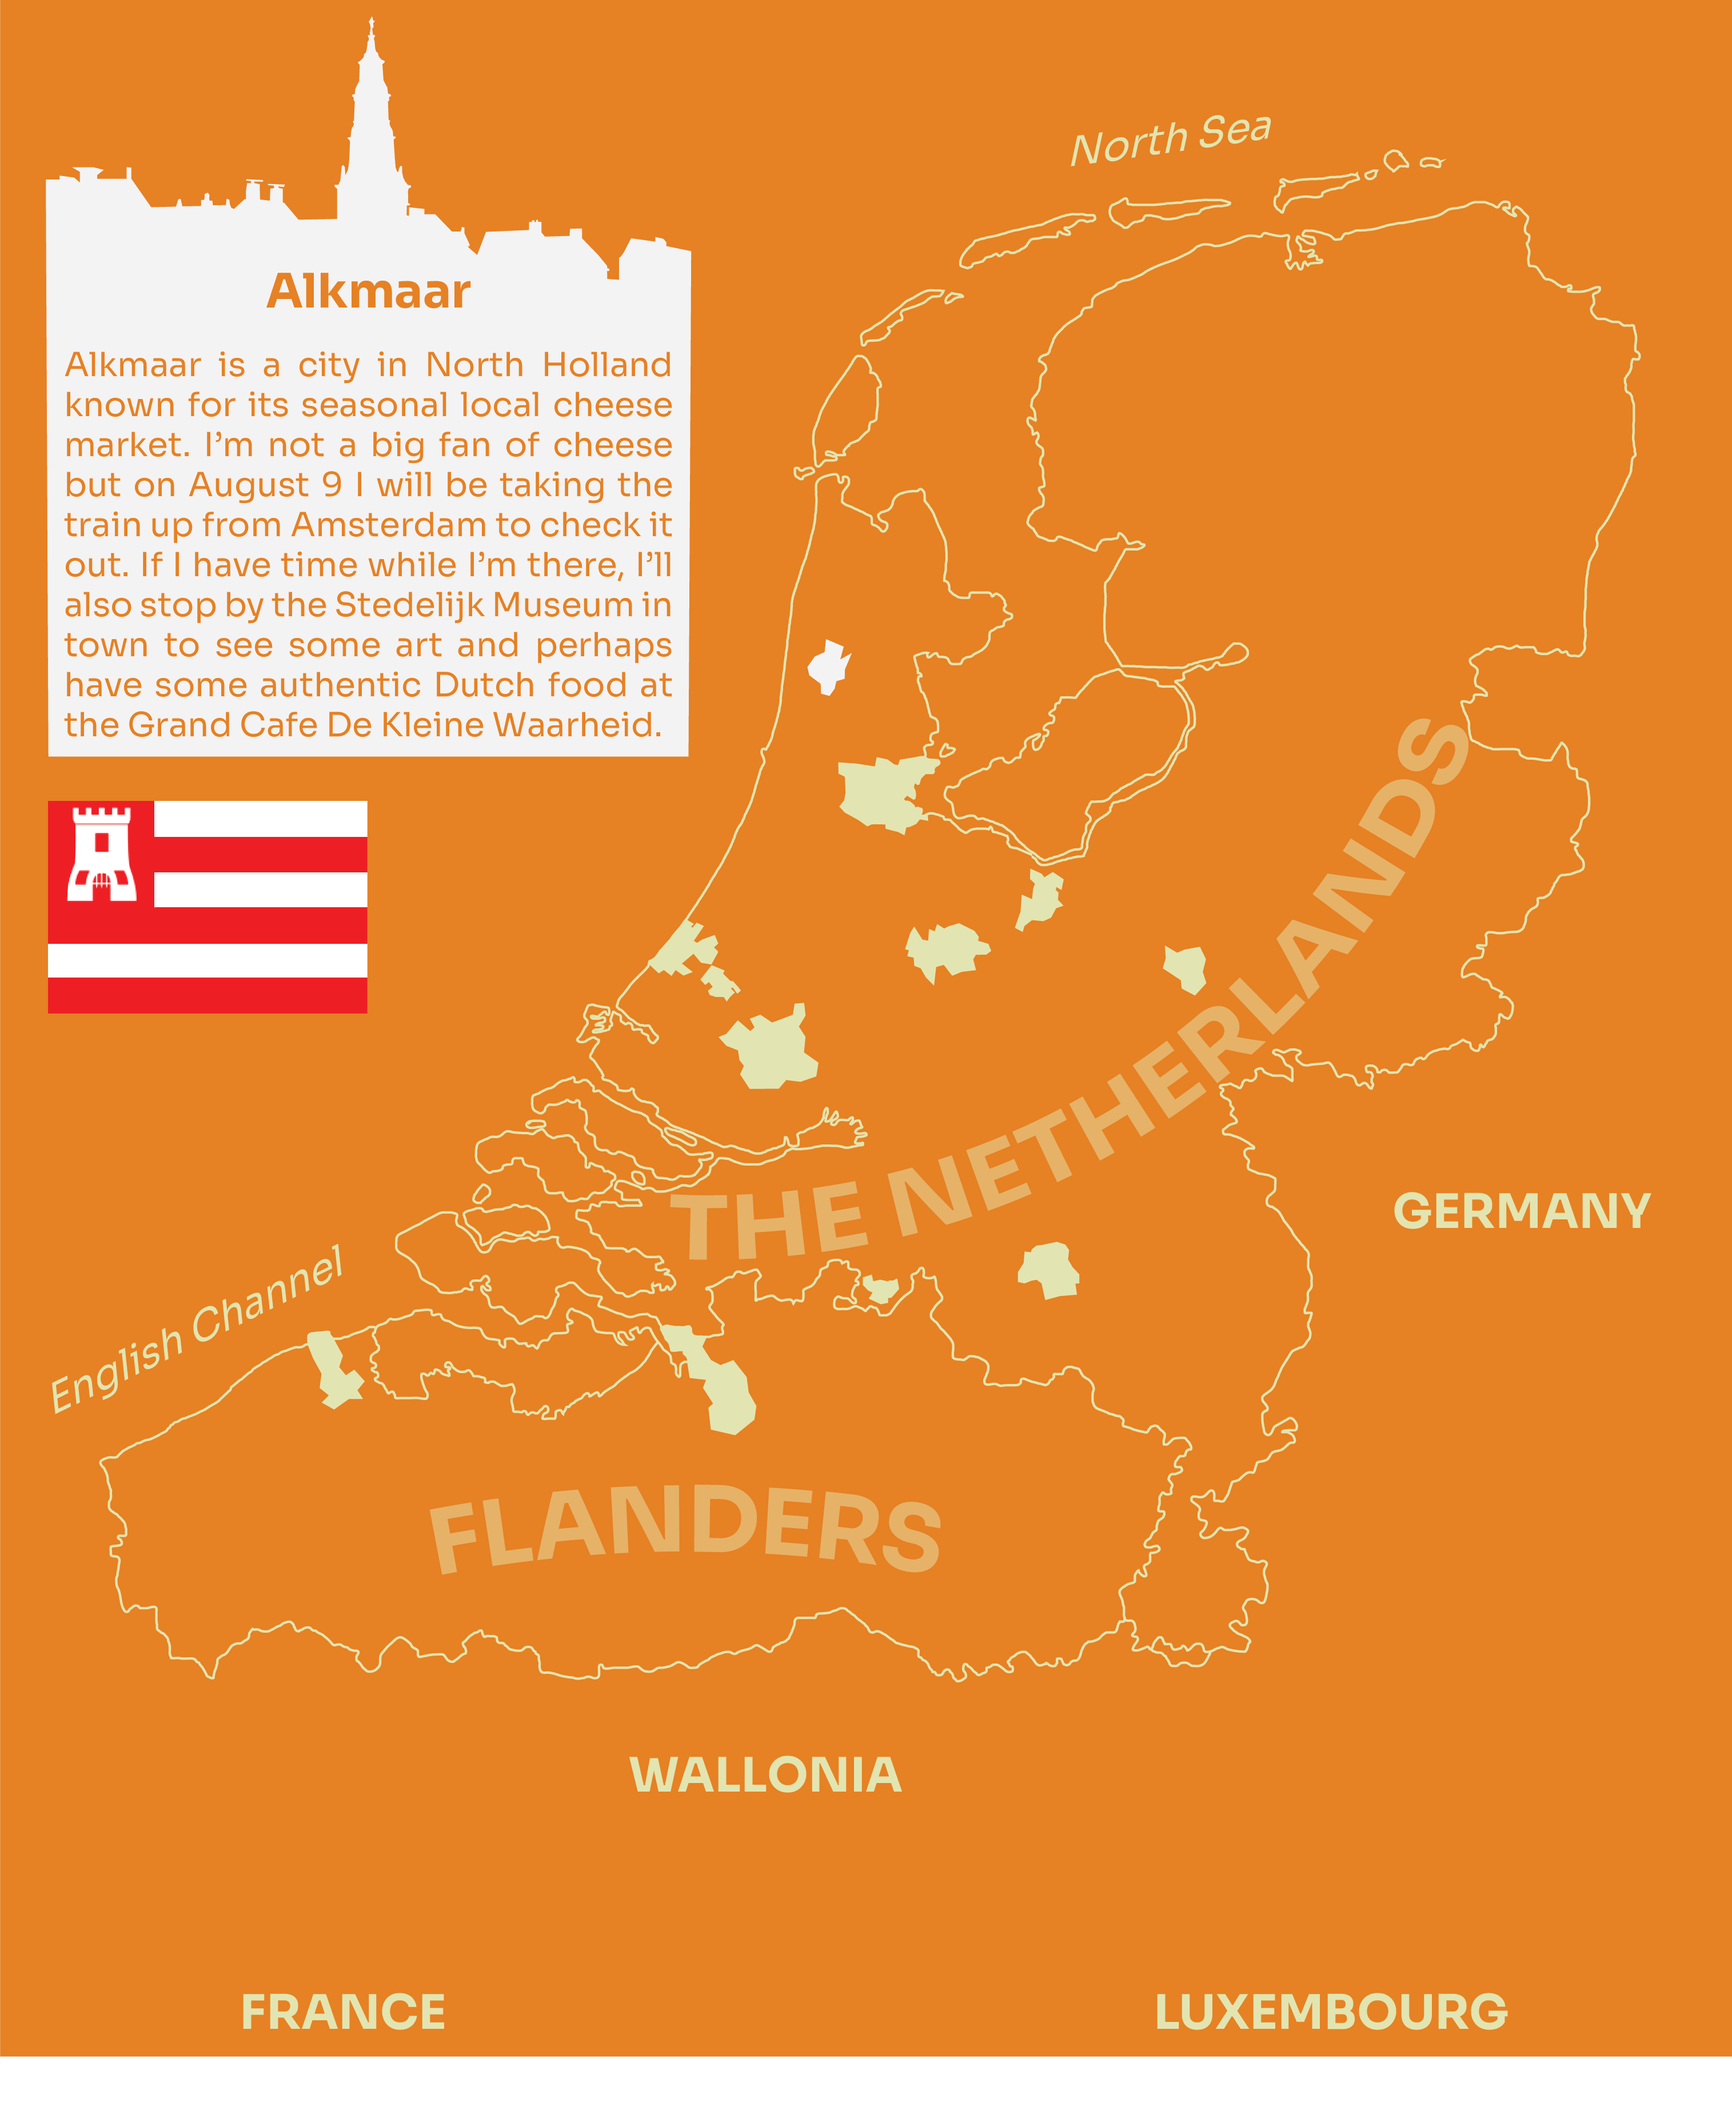
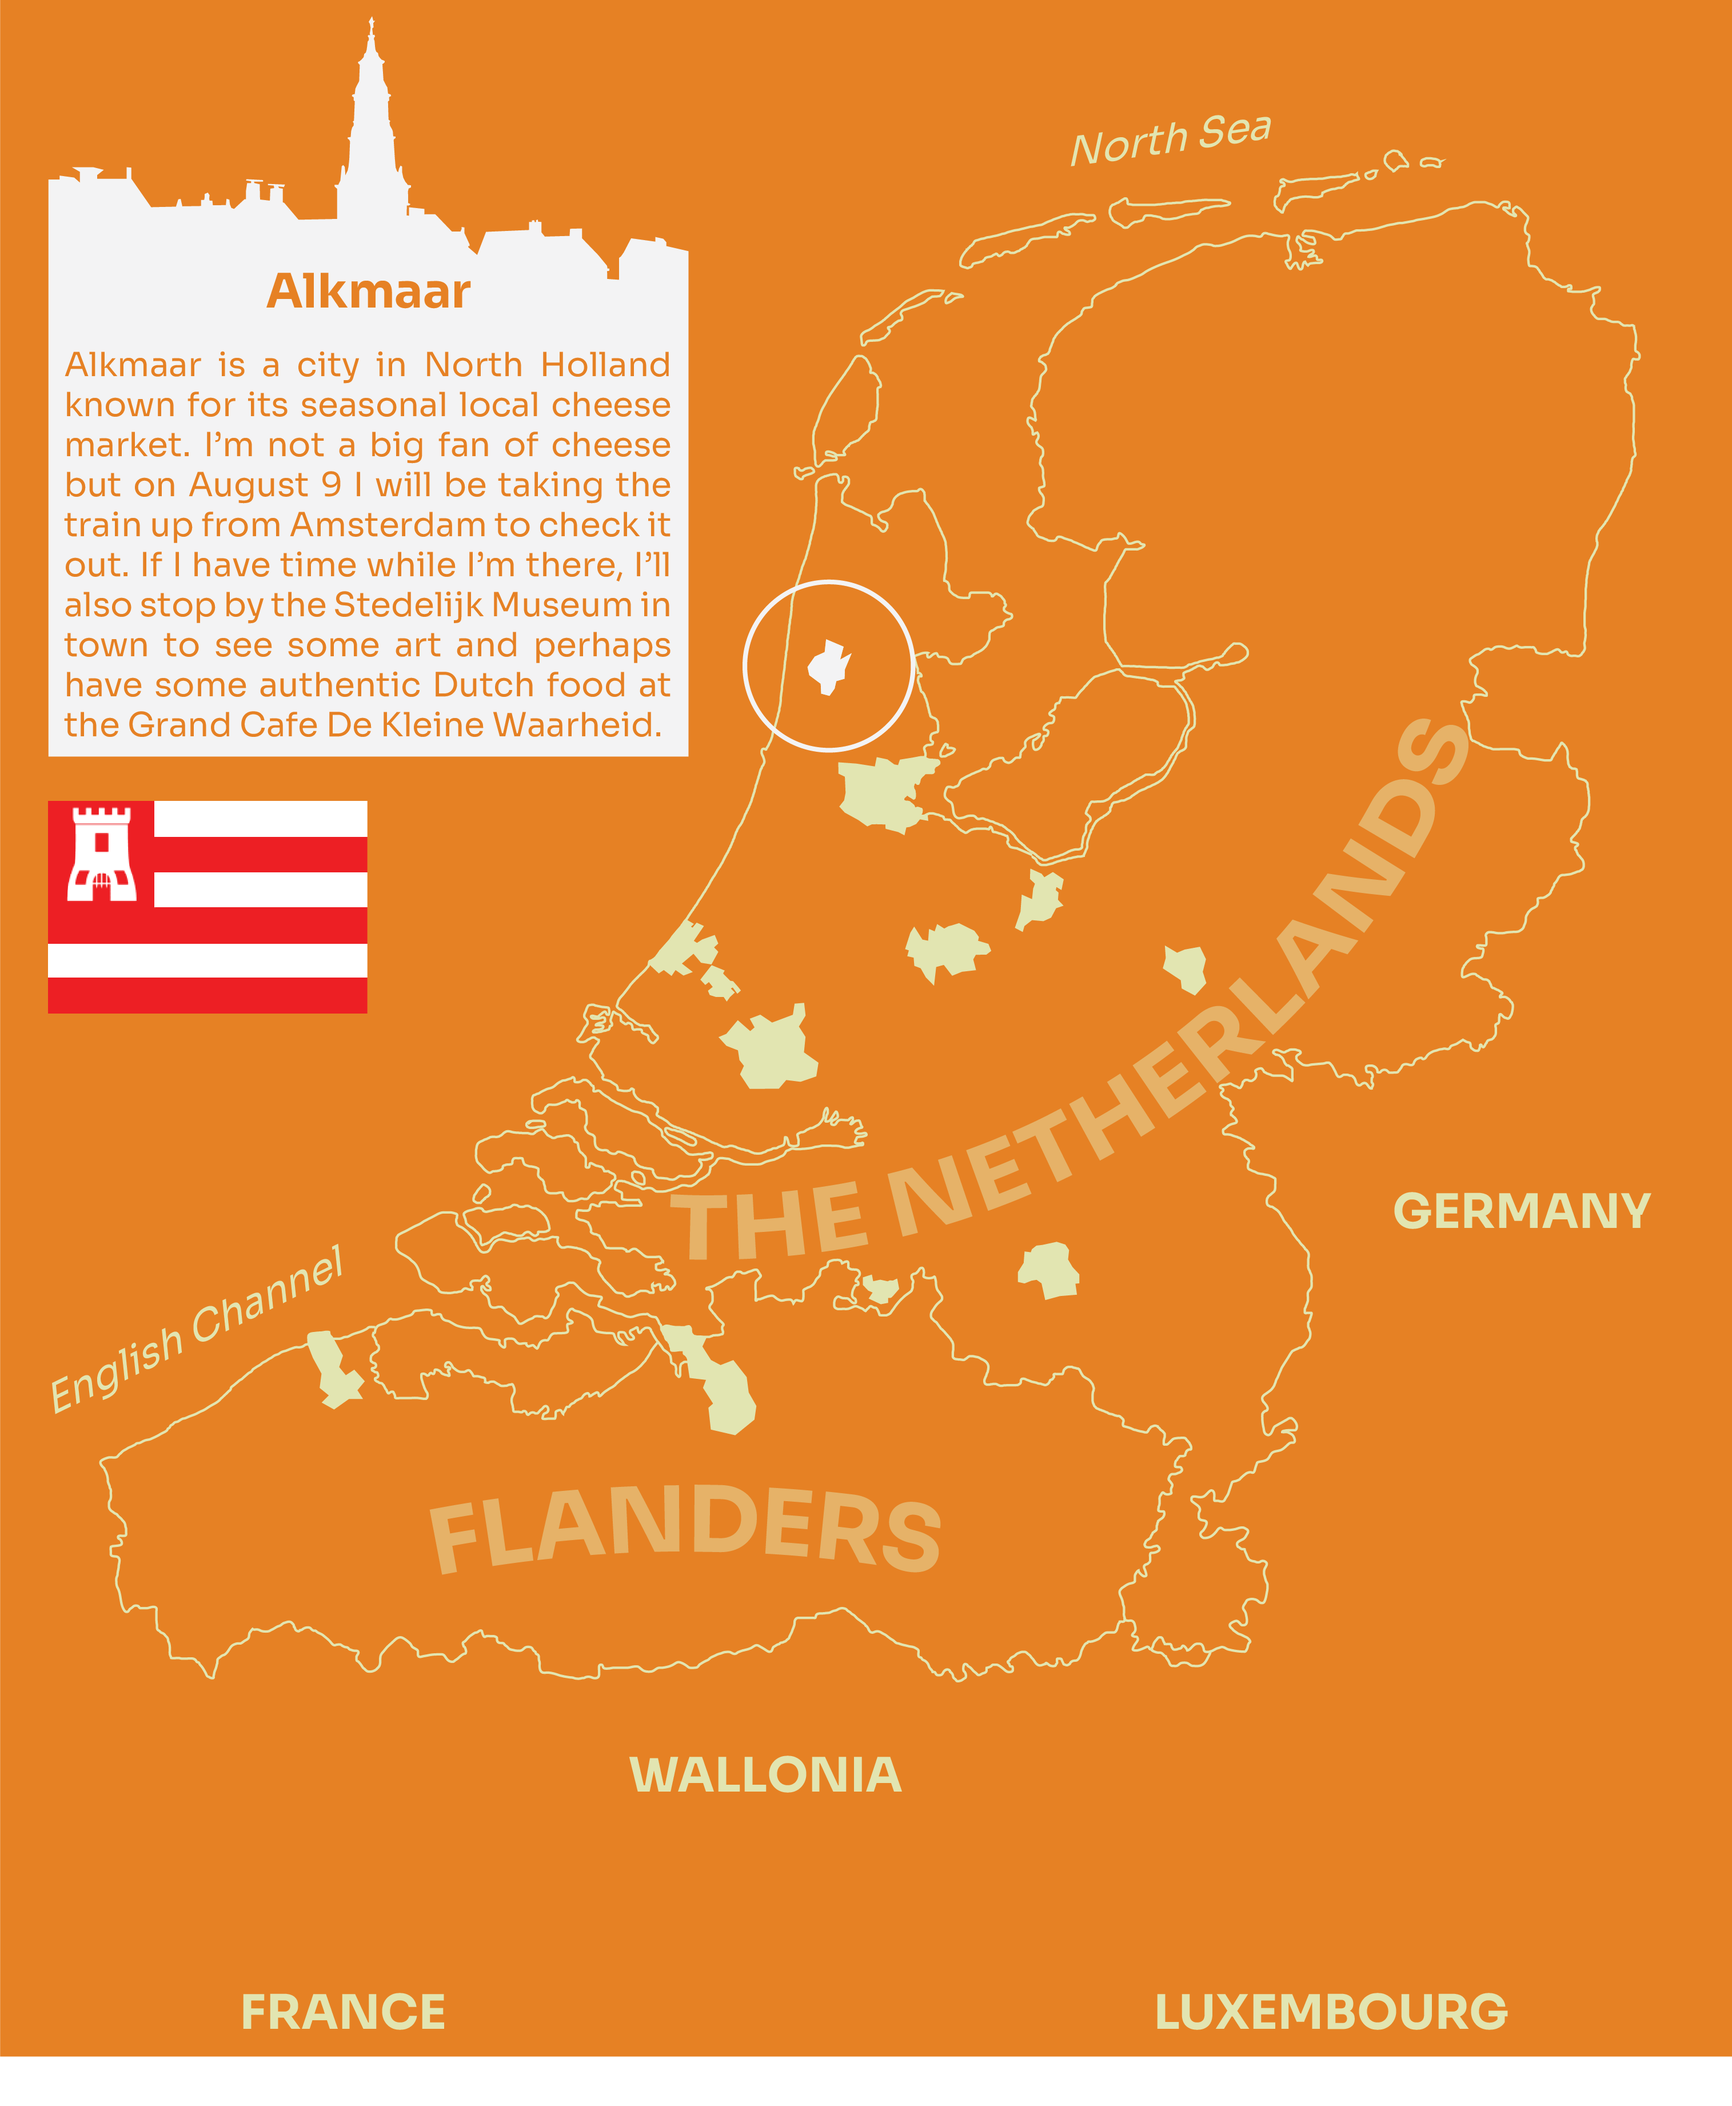
did the blog for netherlands

Changed region(s): [[0.1861, 0.1561, 0.4033, 0.3122], [0.4964, 0.2809, 0.5274, 0.3122]]

diff --git a/blog.html b/blog.html
@@ -50,7 +50,8 @@
     </script>
 
     <!--below is the Blog itself-->
-    <h2 id="blogh2">Three Blogs that I try to keep updated as much as possible</h2>
+    <h2 id="blogh2">Click any blog below</h2>
+    <br>
     <br>
     <h2 id="blognotice">Note: you may need to double-tap on iOS devices</h2>
     
@@ -70,7 +71,6 @@
           <span class="subtext">Join me as I get fluent in Dutch</span>
         </li>
       </ul>
-      <br>
 
  <!--text of each blog-->
     <!--politics-->
@@ -168,31 +168,27 @@ Factors contributing to a general tendency toward Trump over Biden nationally in
         <h3>Join me as I share my journeys learning languages!</h3>
         <h2>Chapter 1: Big Plans in the Lowlands</h2>
         <h3>August 2023 — The month I get fluent in Dutch</h3>
-        <div id="netherlandsmappbox"> <!-- below is the actual blog content -->
-            <p class="ptextwidth" style="font-size:regular">
-              Click on a the name of a city to find out more
-            <img src="languages\netherlandsblog.png" id="netherlandsmap">
+        <div class="map-and-cities-container">
+          <div id="netherlandsmappbox">
+            <p class="ptextwidth">Click on a the name of a city to find out more
+            <img src="languages\netherlandsblog.png" id="netherlandsmap" onlick="changeImageRegular()">
           </p>
-          <p class="ptextwidth" style="font-size: regular" id="dutchblogadjust">
-            <strong>Idee - Idea</strong>
-            <br>
-This summer I will be traveling to Amsterdam to study Dutch at the University of Amsterdam’s summer intensive Dutch program for nearly all of August. 
-        </p>
-        </div>
-        <div class="listofcities" style="position:relative; display:block">
-          <div class="nclickable" id="nAlkmaar"><h3 style="top:50em; left: 20em" onclick="changeImageAlkmaar()">Alkmaar</h3></div>
-          <div class="nclickable" id="nAmersfoort"><h3 style="top:20em; left: 30em">Amersfoort</h3></div>
-          <div class="nclickable" id="nAmsterdam"><h3 style="top:10em; left: 0em">Amsterdam</h3></div>
-          <div class="nclickable" id="nAntwerp"><h3 style="top:10em; left: 20em">Antwerp</h3></div>
-          <div class="nclickable" id="nBaarle"><h3 style="top:20em; left: 30em">Baarle</h3></div>
-          <div class="nclickable" id="nBrugge"><h3 style="top:20em; left: 20em">Brugge</h3></div>
-          <div class="nclickable" id="nDelft"><h3 style="top:30em; left: 10em">Delft</h3></div>
-          <div class="nclickable" id="nDen Haag"><h3 style="top:20em; left: 0em">Den Haag</h3></div>
-          <div class="nclickable" id="nEindhoven"><h3 style="top:0em; left: 20em">Eindhoven</h3></div>
-          <div class="nclickable" id="nOtterlo"><h3 style="top:20em; left: 10em">Otterlo</h3></div>
-          <div class="nclickable" id="nRotterdam"><h3 style="top:20em; left: 40em">Rotterdam</h3></div>
-          <div class="nclickable" id="nUtrecht"><h3 style="top:40em; left: 30em">Utrecht</h3></div>
-        </div>
+          </div>
+          <div class="listofcities">
+            <div class="nclickable" id="nAlkmaar"><h3 onclick="changeImageAlkmaar()">Alkmaar</h3></div>
+            <div class="nclickable" id="nAmersfoort"><h3 onclick="changeImageAmersfoort()">Amersfoort</h3></div>
+            <div class="nclickable" id="nAmsterdam"><h3 onclick="changeImageAmsterdam()">Amsterdam</h3></div>
+            <div class="nclickable" id="nAntwerp"><h3 onclick="changeImageAntwerp()">Antwerp</h3></div>
+            <div class="nclickable" id="nBaarle"><h3 onclick="changeImageBaarle()">Baarle</h3></div>
+            <div class="nclickable" id="nBrugge"><h3 onclick="changeImageBrugge()">Brugge</h3></div>
+            <div class="nclickable" id="nDelft"><h3 onclick="changeImageDelft()">Delft</h3></div>
+            <div class="nclickable" id="nDen_Haag"><h3 onclick="changeImageDenHaag()">Den Haag</h3></div>
+            <div class="nclickable" id="nEindhoven"><h3 onclick="changeImageEindhoven()">Eindhoven</h3></div>
+            <div class="nclickable" id="nOtterlo"><h3 onclick="changeImageOtterlo()">Otterlo</h3></div>
+            <div class="nclickable" id="nRotterdam"><h3 onclick="changeImageRotterdam()">Rotterdam</h3></div>
+            <div class="nclickable" id="nUtrecht"><h3 onclick="changeImageUtrecht()">Utrecht</h3></div>
+          </div>
+      </div>
     </div>
     </div>
 
@@ -213,10 +209,110 @@ This summer I will be traveling to Amsterdam to study Dutch at the University of
     });
   });
 });
+
+/* default netherlands map below */
+function changeImageRegular() {
+    var regularimage = 
+    document.getElementById('alkmaarimage') ||
+    document.getElementById('amersfoortimage') ||
+    document.getElementById('amsterdamimage') ||
+    document.getElementById('antwerpimage') ||
+    document.getElementById('baarleimage') ||
+    document.getElementById('bruggeimage') ||
+    document.getElementById('delftimage') ||
+    document.getElementById('denhaagimage') ||
+    document.getElementById('eindhovenimage') ||
+    document.getElementById('otterloimage') ||
+    document.getElementById('rotterdamtimage') ||
+    document.getElementById('utrechtimage');
+    regularimage.src = 'languages/netherlandsblog.png';
+    regularimage.id = "netherlandsmap";
+}
+
+
 /* alkmaar image below */
 function changeImageAlkmaar() {
-  var image = document.getElementById('netherlandsmap');
-  image.src = 'languages/alkmaarblog.png'; // Replace 'new-image.jpg' with the path to your new local image
+    var alkmaarimage = document.getElementById('netherlandsmap');
+    alkmaarimage.src = 'languages/alkmaarblog.png';
+    image.id = "alkmaarimage";
+}
+
+
+/* amersfoort image below */
+function changeImageAmersfoort() {
+    var amersfoortimage = document.getElementById('netherlandsmap');
+    amersfoortimage.src = 'languages/amersfoortblog.png';
+    image.id = "amersfoortimage";
+}
+
+/* amsterdam image below */
+function changeImageAmsterdam() {
+    var amsterdamimage = document.getElementById('netherlandsmap');
+    amsterdamimage.src = 'languages/amsterdamblog.png';
+    image.id = "amsterdamimage";
+}
+
+/* antwerp image below */
+function changeImageAntwerp() {
+    var antwerpimage = document.getElementById('netherlandsmap');
+    antwerpimage.src = 'languages/antwerpblog.png';
+    image.id = "antwerpimage";
+}
+
+/* baarle image below */
+function changeImageBaarle() {
+    var baarleimage = document.getElementById('netherlandsmap');
+    baarleimage.src = 'languages/baarleblog.png';
+    image.id = "baarleimage";
+}
+
+/* brugge image below */
+function changeImageBrugge() {
+    var bruggeimage = document.getElementById('netherlandsmap');
+    bruggeimage.src = 'languages/bruggeblog.png';
+    image.id = "bruggeimage";
+}
+
+/* delft image below */
+function changeImageDelft() {
+    var delftimage = document.getElementById('netherlandsmap');
+    delftimage.src = 'languages/delftblog.png';
+    image.id = "delftimage";
+}
+
+/* den haag image below */
+function changeImageDenHaag() {
+    var denhaagimage = document.getElementById('netherlandsmap');
+    denhaagimage.src = 'languages/denhaagblog.png';
+    image.id = "denhaagimage";
+}
+
+/* eindhoven image below */
+function changeImageEindhoven() {
+    var eindhovenimage = document.getElementById('netherlandsmap');
+    eindhovenimage.src = 'languages/eindhovenblog.png';
+    image.id = "eindhovenimage";
+}
+
+/* otterlo image below */
+function changeImageOtterlo() {
+    var otterloimage = document.getElementById('netherlandsmap');
+    otterloimage.src = 'languages/otterloblog.png';
+    image.id = "otterloimage";
+}
+
+/* rotterdam image below */
+function changeImageRotterdam() {
+    var rotterdamimage = document.getElementById('netherlandsmap');
+    rotterdamimage.src = 'languages/rotterdamblog.png';
+    image.id = "rotterdamimage";
+}
+
+/* utrecht image below */
+function changeImageUtrecht() {
+    var utrechtimage = document.getElementById('netherlandsmap');
+    utrechtimage.src = 'languages/utrechtblog.png';
+    image.id = "utrechtimage";
 }
     </script>
 

diff --git a/style.css b/style.css
@@ -277,7 +277,7 @@ hr {
 .blog-link-list {
     position: absolute;
     list-style: none;
-    margin-top: 145px;
+    margin-top: 125px;
     padding-left: 0px;
     margin-left: 3%;
     font-size: x-large;
@@ -353,11 +353,109 @@ hr {
   .nclickable {
     cursor: pointer;
     color: #e3e3b0; /* Initial color of the text */
+    text-decoration: none;
+    position: relative;
+    display: inline;
+    margin-bottom: 2em;
+    height: 0.8em;
+
   }
   .nclicked {
     color: white; /* Color of the text after clicking */
     text-decoration: underline;
   }
+
+  #nAlkmaar {
+    position: absolute;
+    top: 619px; /* y value */
+    left: 375px; /* x value */
+    border-left: -1em;
+  }
+
+  #nAmersfoort {
+    position: absolute;
+    top: 717px; /* y value */
+    left: 466px; /* x value */
+  }
+
+  #nAmsterdam {
+    position: absolute;
+    top: 669px; /* y value */
+    left: 406px; /* x value */
+  }
+
+  #nAntwerp {
+    position: absolute;
+    top: 953px; /* y value */
+    left: 273px; /* x value */
+  }
+
+  #nBaarle {
+    position: absolute;
+    top: 900px; /* y value */
+    left: 356px; /* x value */
+  }
+
+  #nBrugge {
+    position: absolute;
+    top: 940px; /* y value */
+    left: 122px; /* x value */
+  }
+
+  #nDelft {
+    position: absolute;
+    top: 749px; /* y value */
+    left: 330px; /* x value */
+    z-index: 2;
+  }
+
+  #nDen_Haag {
+    position: absolute;
+    top: 712px; /* y value */
+    left: 258px; /* x value */
+    z-index: 1;
+  }
+
+  #nEindhoven {
+    position: absolute;
+    top: 872px; /* y value */
+    left: 474px; /* x value */
+  }
+
+  #nOtterlo {
+    position: absolute;
+    top: 754px; /* y value */
+    left: 440px; /* x value */
+  }
+
+  #nRotterdam {
+    position: absolute;
+    top: 806px; /* y value */
+    left: 288px; /* x value */
+  }
+
+  #nUtrecht {
+    position: absolute;
+    top: 770px; /* y value */
+    left: 376px; /* x value */
+  }
+
+  .listofcities {
+    border-top: 2em;
+    border-bottom: 2.2em;
+  }
+
+  #dutchblogadjust {
+    position: relative;
+    width: 100%;
+    height: 100%;
+    max-width: 36.6em;
+    min-width: 34em;
+    margin-left: .15em;
+    margin-right: .15em;
+  }
+
+  /* end of dutch stuff */
 
   #blogsline {
     position: relative;
@@ -379,6 +477,7 @@ hr {
 }
 
 #netherlandsmappbox {
+    position: relative;
     width: 100%;
     height: 100%;
     max-width: 50em;
@@ -404,6 +503,7 @@ hr {
     width: 91.5%;
     word-wrap: break-word;
     margin-bottom: 7em;
+    font-size: small;
 }
 
 #allblogs h3 { 
@@ -543,6 +643,15 @@ hr {
 }
 
                                         /* mobile only */
+
+@media only screen and (max-width: 840px) {
+    /* dutch stuff */
+    #nAlkmaar, #nAmersfoort, #nAmsterdam, #nAntwerp, #nBaarle, #nBrugge, #nDelft, #nDen_Haag, #nEindhoven, #nOtterlo, #nRotterdam, #nUtrecht{
+        position: relative;
+        top: -5em;
+        left: 0px;
+    }
+}
 
 @media only screen and (max-width: 550px) {
 
@@ -700,7 +809,7 @@ hr {
         margin-top: 85px;
         margin-left: 3%;
         display: block;
-        font-size: x-small;
+        font-size: small;
         font-style: italic;
         padding-right: 12px;
         visibility: visible;
@@ -757,6 +866,10 @@ hr {
     .pbox img {
         min-width: 22em;
         width: 80vw;
+    }
+
+    .ptextwidth {
+        font-size: 1em !important;
     }
 
     /* contact */
